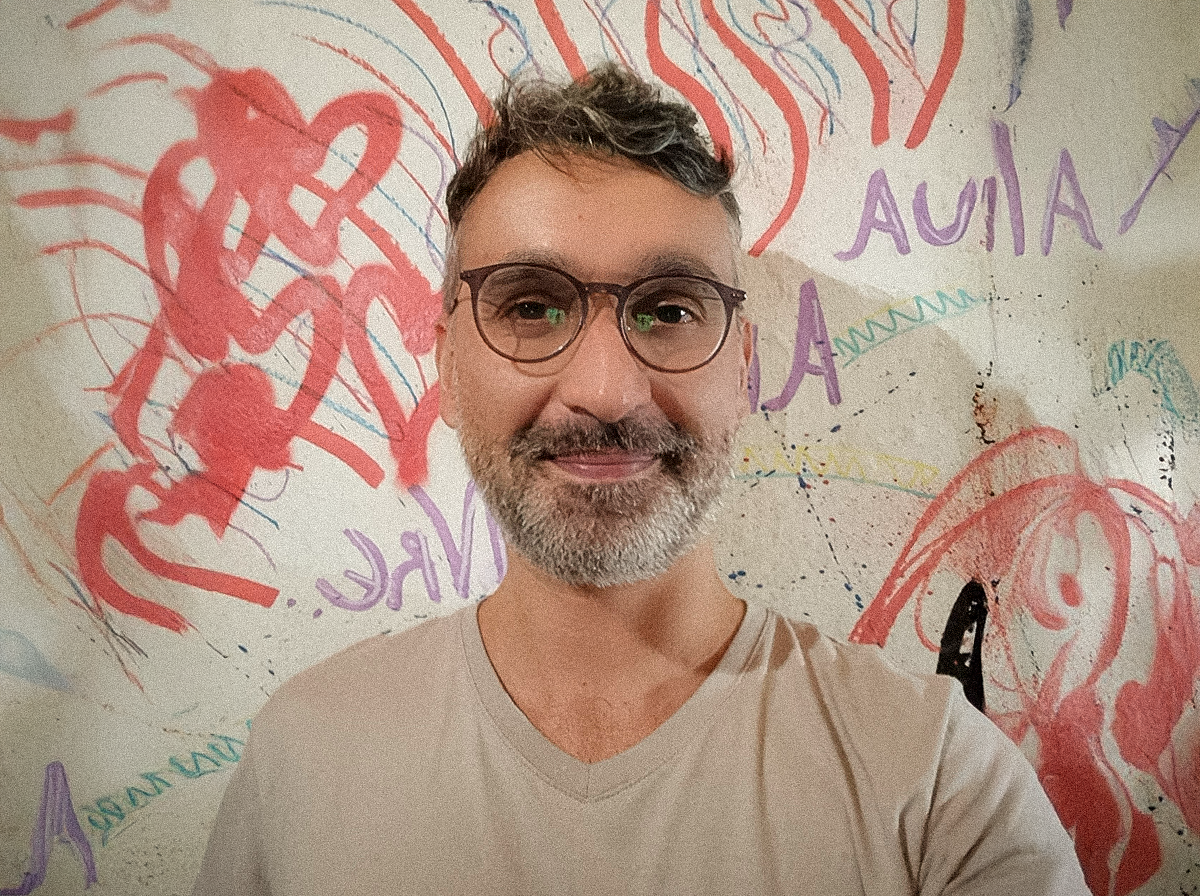
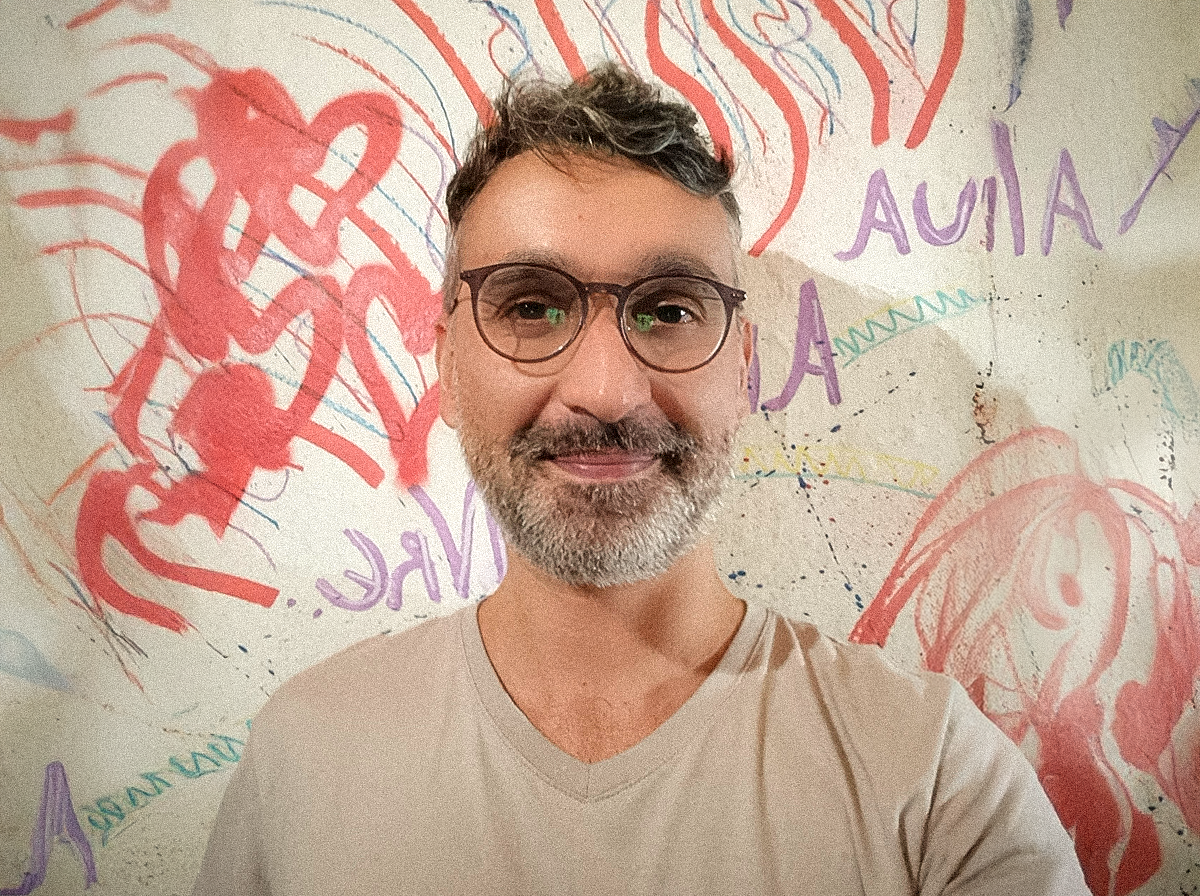
update

Changed region(s): [[0.2158, 0.0, 0.8017, 0.6875], [0.74, 0.3438, 1.0, 0.875], [0.2467, 0.0938, 0.2775, 0.125]]

diff --git a/index.html b/index.html
@@ -41,7 +41,7 @@
             <p>Nice to meet you, I'm Paulo (paw—lu). I'm based in Brazil.  My pronouns are he/him.</p>
           </div>
           <div class="col-lg-4 d-none d-lg-block">
-            <img src="assets/avatar.png" class="parallax-img" alt="" />
+            <img src="assets/avatar.webp" class="parallax-img" alt="" />
           </div>
         </div>
       </section>
